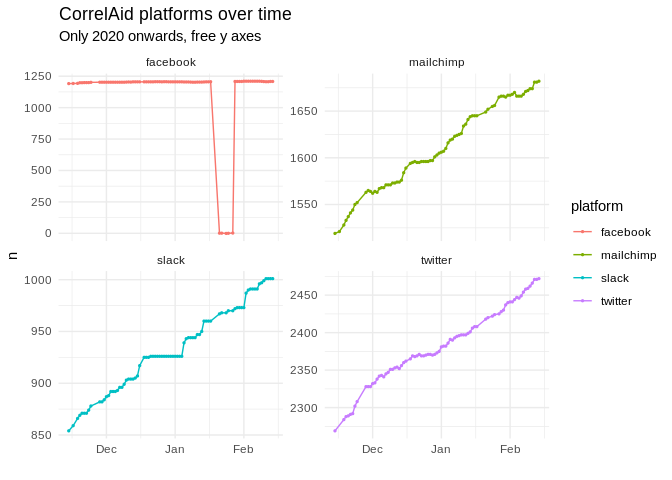
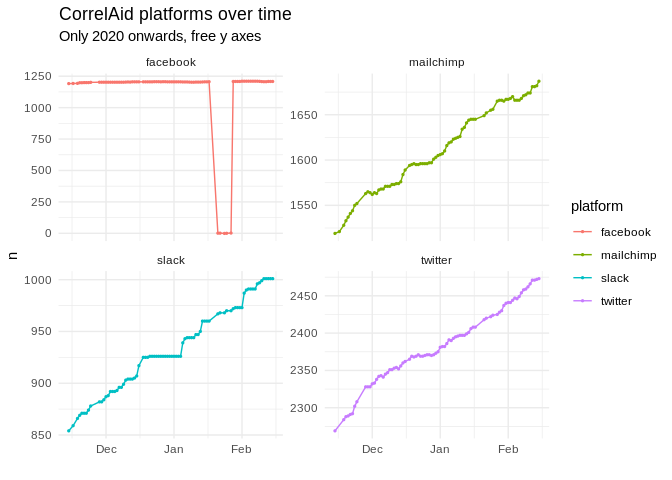
🤖 CRON - update daily data

diff --git a/README.md b/README.md
@@ -25,8 +25,8 @@ count and general network data on a daily basis using
 
 ### Plots
 
-*last updated*: 2021-02-14
-23:50:12
+*last updated*: 2021-02-15
+23:50:13
 
 ![](README_files/figure-gfm/plot-alltime-1.png)<!-- -->
 
